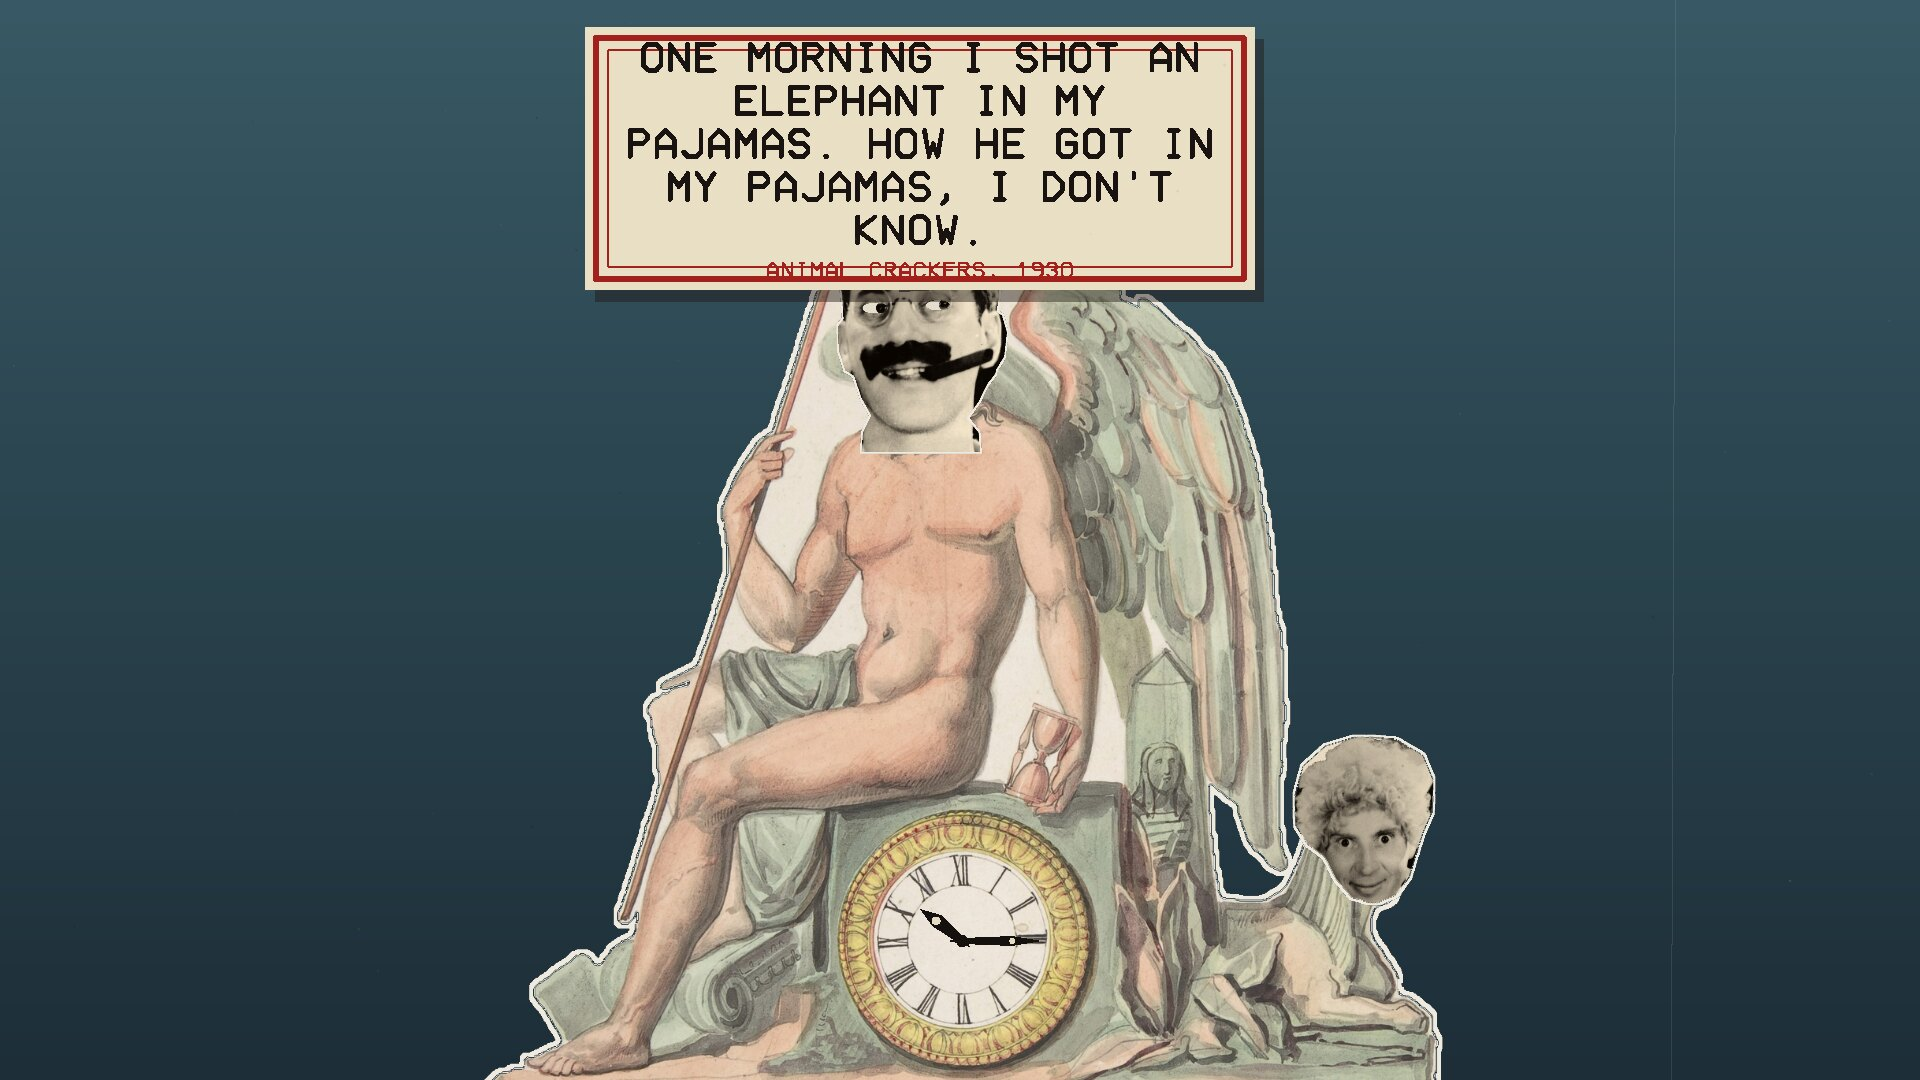
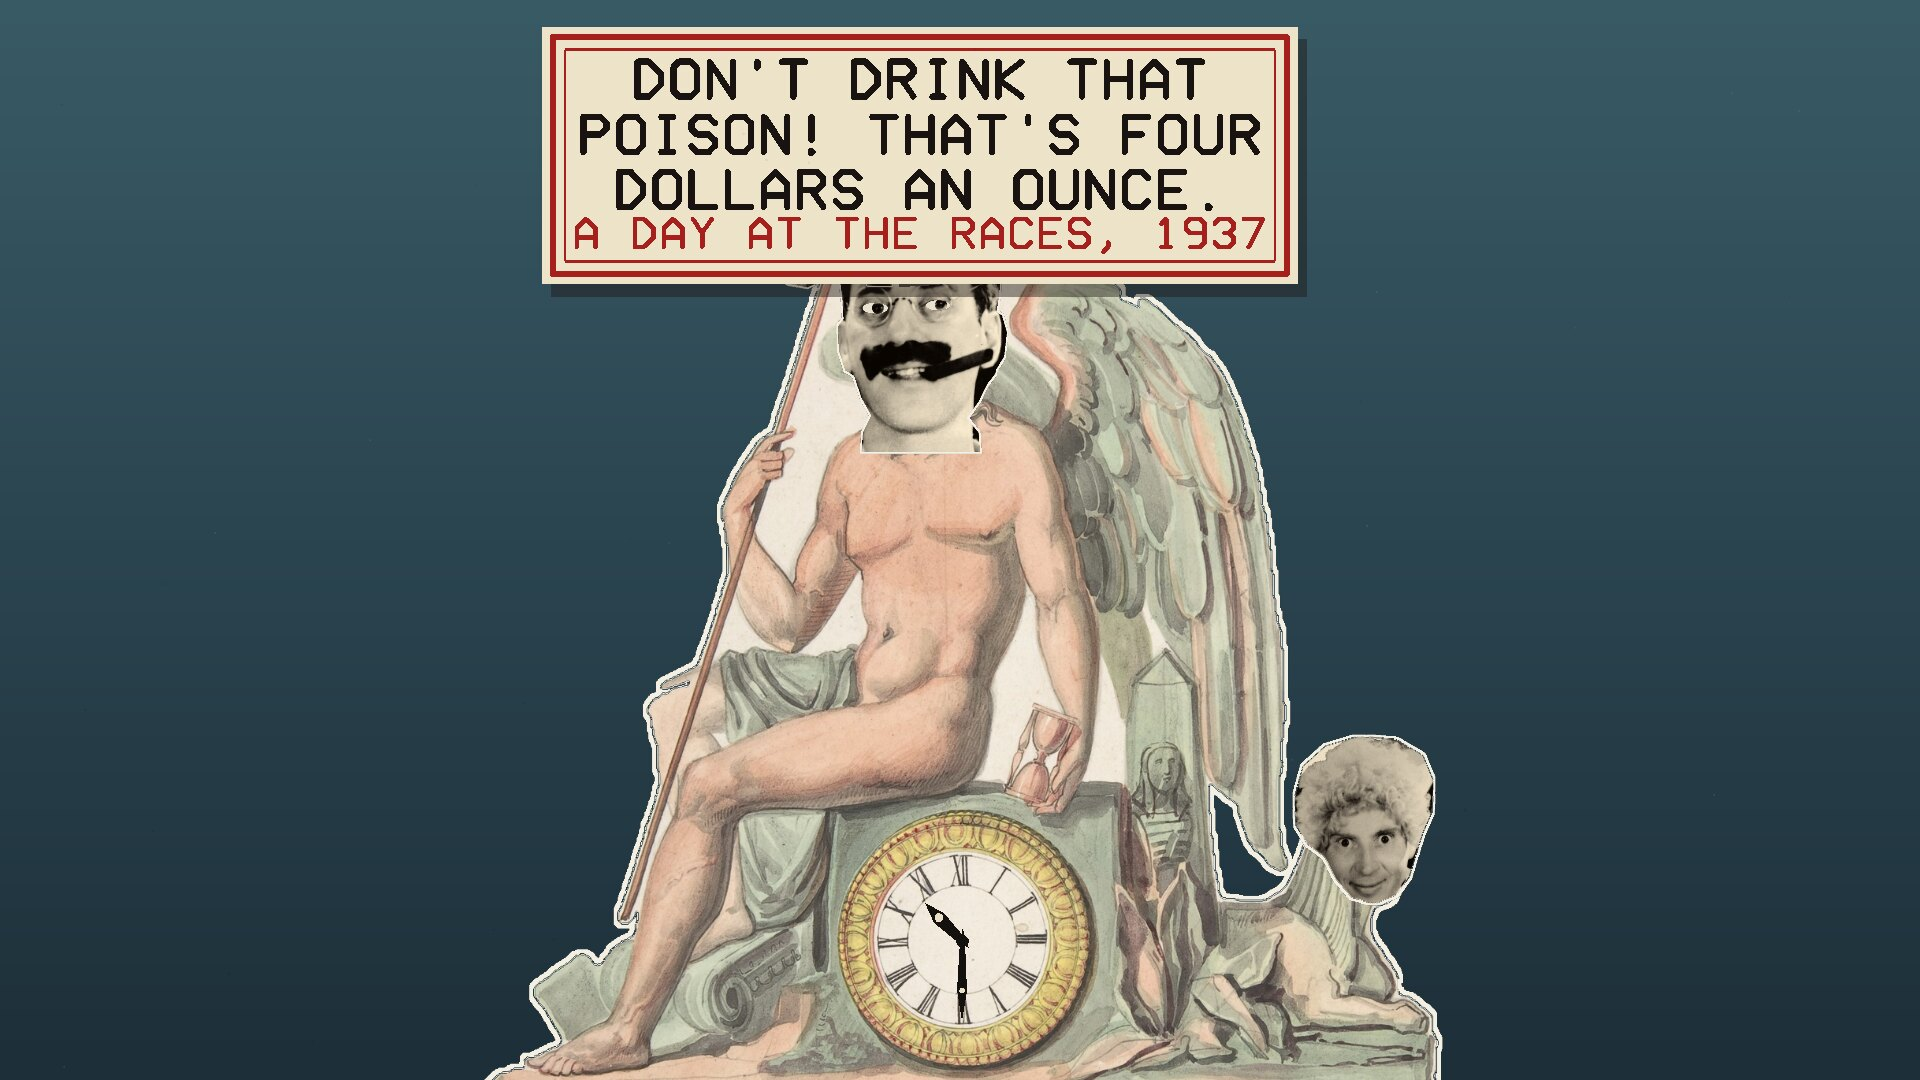
More going on: about every minute and a half a gag with the brothers or the ladies (Zeppo's head swapped in, Dumont sweeping in, Raquel Torres with paper hearts, Chico out of his head on a spring, Harpo up out of the sphinx); the saying card sized to fit any screen, film name included

Changed region(s): [[0.2812, 0.0, 0.6875, 0.3056], [0.5, 0.8556, 0.5312, 0.9167], [0.4688, 0.825, 0.5, 0.8556]]

diff --git a/src/grouchotime.c b/src/grouchotime.c
@@ -397,11 +397,33 @@ static void put(int which, double x, double y, double ax, double ay, double scal
 }
 /* a point of the monument picture, and of the photograph (by where his chin goes), on the screen */
 static void on_mon(double px, double py, double *x, double *y) { *x = mx0 + px * ms; *y = my0 + py * ms; }
+static double head_rot, head_dx, head_dy;   /* the whole head turned about his chin, and moved */
 static void on_photo(double px, double py, double *x, double *y)
 {
-    double cx, cy;
+    double cx, cy, a = head_rot * M_PI / 180;
     on_mon(CHIN_X, CHIN_Y, &cx, &cy);
-    *x = cx + (px - PHOTO_CHIN_X) * hs; *y = cy + (py - PHOTO_CHIN_Y) * hs;
+    double dx = (px - PHOTO_CHIN_X) * hs, dy = (py - PHOTO_CHIN_Y) * hs;
+    *x = cx + dx * cos(a) - dy * sin(a) + head_dx; *y = cy + dx * sin(a) + dy * cos(a) + head_dy;
+}
+
+/* ---- the business in between ----
+ * About every minute and a half, away from the quarter hours, someone does something
+ * for a moment: his head spins round and comes up as Zeppo's, and back; Margaret
+ * Dumont sweeps in and he makes eyes at her; Raquel Torres glides by and his head
+ * floats off after her; the top of his head opens and Chico pops out on a spring; or
+ * Harpo's head goes up out of the sphinx on a spring. */
+enum { EV_ZEPPO, EV_DUMONT, EV_TORRES, EV_CHICO, EV_HARPO, NEV };
+static const double EV_LEN[NEV] = {2.6, 4.2, 4.6, 2.8, 2.4};
+#define EV_EVERY 90.0
+static int event_at(double t, double *u)
+{
+    double slot = floor(t / EV_EVERY), s = t - slot * EV_EVERY;
+    int kind = (int)(hash01((uint64_t)slot * 13 + 1) * NEV) % NEV;
+    double s0 = 20 + hash01((uint64_t)slot * 13 + 2) * 50;
+    if (s < s0 || s > s0 + EV_LEN[kind]) return -1;
+    if (fmod(t, QUARTER) < CARD_LEN + 4) return -1;          /* not while he's saying something */
+    *u = (s - s0) / EV_LEN[kind];
+    return kind;
 }
 
 /* a clock hand as an engraver draws one: a long tapering spade */
@@ -440,8 +462,11 @@ static void saying_label(const Saying *sy, double x, double y, double up)
         p = *e ? e + 1 : e;
     }
     n++;
-    double w = fmin(sw * 0.36, sh * 0.62), s = (w - unit * 6) / (most * 6.2);
-    double lh = s * 10, fsz = s * 0.55, h = lh * n + s * 6 + fsz * 9;
+    /* sized to the screen, and the words sized to fit inside the printer's rule */
+    double w = fmin(sw * 0.40, sh * 0.70), pad = unit * 2.6;
+    double s = (w - 2 * pad) / text_width(lines[0][0] ? "MMMMMMMMMMMMMMMMMMMMMM" : "M", 1.0) * (22.0 / fmax(most, 12));
+    s = fmin(s, (w - 2 * pad) / (most * 6.2));
+    double lh = s * 9.5, fsz = fmin(fmax(s * 0.55, unit * 0.45), (w - 2 * pad) / text_width(sy->film, 1.0)), h = 2 * pad + lh * (n - 1) + s * 6 + fsz * 9;
     double rest = fmax(unit * 2, y - h - sh * 0.10);        /* where it comes to rest: never off the top */
     double top = y + (rest - y) * up - h * fmin(up * 3, 1) * (1 - up), cx = fmin(fmax(x, w / 2 + unit * 2), sw - w / 2 - unit * 2);
     SDL_Color ink = col((Rgb){26, 20, 18}, 1), red = col((Rgb){168, 34, 30}, 1);
@@ -457,8 +482,8 @@ static void saying_label(const Saying *sy, double x, double y, double up)
         double lw = unit * (i ? 0.18 : 0.45);
         line(x0, y0, x1, y0, lw, red); line(x1, y0, x1, y1, lw, red); line(x1, y1, x0, y1, lw, red); line(x0, y1, x0, y0, lw, red);
     }
-    for (int i = 0; i < n; i++) text(lines[i], cx, top + s * 4 + i * lh, s, 1.1, ink);
-    text(sy->film, cx, top + s * 4 + n * lh + fsz * 1.2, fsz, 1.0, red);
+    for (int i = 0; i < n; i++) text(lines[i], cx, top + pad + i * lh, s, 1.1, ink);
+    text(sy->film, cx, top + pad + (n - 1) * lh + s * 6 + fsz * 2.5, fsz, 1.0, red);
     flush(ren);
 }
 
@@ -480,8 +505,27 @@ static void draw_scene(SDL_Renderer *r, int w, int h)
     flush(ren);
 
     double hp = fmod(T, 3600), mp = fmod(T, 60), qp = fmod(T, QUARTER);
+    double eu = 0;
+    int ev = event_at(T, &eu);
+    double ju = jerky(eu * EV_LEN[ev < 0 ? 0 : ev]) / EV_LEN[ev < 0 ? 0 : ev];
+    head_rot = head_dx = head_dy = 0;
+    int zeppo_face = 0;
+    if (ev == EV_ZEPPO) {                                  /* round once, Zeppo; round again, Groucho */
+        if (ju < 0.3) head_rot = 360 * ease(ju / 0.3);
+        else if (ju < 0.7) zeppo_face = 1;
+        else head_rot = 360 * ease((ju - 0.7) / 0.3);
+        zeppo_face |= (ju > 0.15 && ju < 0.3) || (ju >= 0.7 && ju < 0.85);
+    }
+    double smitten = 0;
+    if (ev == EV_TORRES) {                                 /* his head floats up after her */
+        smitten = ramp(ju, 0.25, 0.4) * (1 - ramp(ju, 0.78, 0.92));
+        head_dy = -sh * 0.10 * smitten - sh * 0.02 * sin(ju * 30) * smitten;
+        head_dx = -sw * 0.05 * smitten;
+        head_rot = -12 * smitten;
+    }
     double gq; int gframe;
     int gummo = gummo_at(T, &gq, &gframe);
+    if (ev >= 0) gummo = 0;                                 /* one thing at a time */
 
     /* the monument: Father Time and his clock fill the screen, and the plinth goes
      * on down out of sight */
@@ -523,6 +567,16 @@ static void draw_scene(SDL_Renderer *r, int w, int h)
         if (tt > 17) tilt = sin(M_PI * jerky(tt - 17) / 6) * 14;
         if (gummo) tilt = -10 * gq;                          /* and towards whoever has come */
         on_mon(SPHINX_CHIN_X, SPHINX_CHIN_Y, &hx, &hy);
+        if (ev == EV_HARPO) {                                /* up on a spring, and down again */
+            double lift = ju < 0.3 ? ju / 0.3 * 1.15 : ju < 0.8 ? 1 + 0.15 * cos((ju - 0.3) * 30) * exp(-(ju - 0.3) * 6) : (1 - ju) / 0.2;
+            double top = hy - sh * 0.22 * lift;
+            for (int i = 0; i < 10; i++) {
+                double ya = hy + (top - hy) * i / 10.0, yb = hy + (top - hy) * (i + 1) / 10.0;
+                line(hx + (i & 1 ? -1 : 1) * unit, ya, hx + (i & 1 ? 1 : -1) * unit, yb, unit * 0.3, col((Rgb){90, 84, 78}, 1));
+            }
+            flush(ren);
+            hy = top; tilt = sin(ju * 25) * 12;
+        }
         put(SP_harpo, hx, hy, HARPO_CHIN_X, HARPO_CHIN_Y, ms * 0.56, tilt, 1, 0);
     }
 
@@ -539,22 +593,36 @@ static void draw_scene(SDL_Renderer *r, int w, int h)
         disc(x, y, erx * hs * 1.15, col((Rgb){236, 228, 210}, 1), col((Rgb){236, 228, 210}, 1));
         flush(ren);
         int ir = e ? SP_iris_r : SP_iris_l;
-        put(ir, x + look * erx * hs * 0.55, y, sprite[ir].w / 2.0, sprite[ir].h / 2.0, hs * 1.05, 0, 1, 0);
+        double ox = look * erx * 0.55, oy = 0;
+        if (ev == EV_DUMONT && ju > 0.2 && ju < 0.85) ox = erx * 0.6;        /* at her */
+        if (ev == EV_TORRES && ju > 0.1 && ju < 0.9) ox = -erx * 0.6;
         (void)ery;
+        double ra = head_rot * M_PI / 180;
+        put(ir, x + (ox * cos(ra) - oy * sin(ra)) * hs, y + (ox * sin(ra) + oy * cos(ra)) * hs,
+            sprite[ir].w / 2.0, sprite[ir].h / 2.0, hs * 1.05, head_rot, 1, 0);
     }
 
     /* the head */
     double x, y;
     on_photo(HEAD_X, HEAD_Y, &x, &y);
-    put(SP_head, x, y, 0, 0, hs, 0, 1, 0);
+    if (zeppo_face) {                                      /* Zeppo, where Groucho was */
+        double zx, zy, zs = hs * sprite[SP_head].w / sprite[SP_zeppo].w * 0.9;
+        on_photo(PHOTO_CHIN_X, PHOTO_CHIN_Y - 40, &zx, &zy);
+        put(SP_zeppo, zx, zy, ZEPPO_CHIN_X, ZEPPO_CHIN_Y, zs, head_rot, 1, 0);
+    } else
+        put(SP_head, x, y, 0, 0, hs, head_rot, 1, 0);
 
     /* the eyebrows: up and down as each minute begins, and up for Gummo */
     double wag = mp < 1.5 ? fabs(sin(jerky(mp) * M_PI * 3)) * (1 - mp / 1.5) : 0;
+    if (ev == EV_DUMONT && ju > 0.25 && ju < 0.85) wag = fabs(sin(jerky(ju * 4.2) * M_PI * 2.5));
+    if (smitten > 0) wag = fmax(wag, smitten * fabs(sin(jerky(anim_t) * 9)));
     double lift = wag * 22 + (gummo ? 14 * gq : 0);
+    if (!zeppo_face) {
     on_photo(BROW_L_X, BROW_L_Y - lift, &x, &y);
-    put(SP_brow_l, x, y, 0, 0, hs, -wag * 6, 1, 0);
+    put(SP_brow_l, x, y, 0, 0, hs, head_rot - wag * 6, 1, 0);
     on_photo(BROW_R_X, BROW_R_Y - lift, &x, &y);
-    put(SP_brow_r, x, y, 0, 0, hs, wag * 6, 1, 0);
+    put(SP_brow_r, x, y, 0, 0, hs, head_rot + wag * 6, 1, 0);
+    }
 
     /* every quarter of an hour the top of his head flips open on its hinge and up
      * comes a saying, on a spring */
@@ -564,6 +632,12 @@ static void draw_scene(SDL_Renderer *r, int w, int h)
         up = ramp(qp, 0.7, 1.3) * (1 - ramp(qp, CARD_LEN + 0.6, CARD_LEN + 1.4));
         open = jerky(open * 3) / 3; up = jerky(up * 4) / 4;
         up *= 1 + 0.15 * sin(fmin(qp - 1.3, 2) * 9) * exp(-fmax(qp - 1.3, 0) * 2.5) * (qp > 1.3);
+    }
+    double chico_up = 0;
+    if (ev == EV_CHICO) {                                  /* the lid opens and up pops Chico */
+        open = ramp(ju, 0, 0.15) * (1 - ramp(ju, 0.85, 1));
+        chico_up = ramp(ju, 0.15, 0.3) * (1 - ramp(ju, 0.7, 0.85));
+        chico_up *= 1 + 0.12 * sin((ju - 0.3) * 40) * exp(-fmax(ju - 0.3, 0) * 8) * (ju > 0.3);
     }
     if (open > 0) {                                        /* the inside of his head: a dark slot along the cut */
         double ax, ay, bx, by;
@@ -579,8 +653,46 @@ static void draw_scene(SDL_Renderer *r, int w, int h)
         for (int i = 0; i < n; i++) { ib[ni++] = k; ib[ni++] = k + 1 + i; ib[ni++] = k + 1 + (i + 1) % n; }
         flush(ren);
     }
+    if (chico_up > 0) {
+        double cx, cy, top, cs = hs * sprite[SP_head].w / sprite[SP_chico].w * 0.75;
+        on_photo(430, 205, &cx, &cy);
+        top = cy - sh * 0.09 * chico_up;
+        for (int i = 0; i < 8; i++) {
+            double ya = cy + (top - cy) * i / 8.0, yb = cy + (top - cy) * (i + 1) / 8.0;
+            line(cx + (i & 1 ? -1 : 1) * unit * 1.2, ya, cx + (i & 1 ? 1 : -1) * unit * 1.2, yb, unit * 0.32, col((Rgb){90, 84, 78}, 1));
+        }
+        flush(ren);
+        put(SP_chico, cx, top, CHICO_CHIN_X, CHICO_CHIN_Y, cs, sin(ju * 30) * 10, 1, 0);
+    }
     on_photo(HINGE_X, HINGE_Y, &x, &y);
-    put(SP_flap, x, y, HINGE_X - FLAP_X, HINGE_Y - FLAP_Y, hs, -open * 115, 1, 0);
+    if (!zeppo_face) put(SP_flap, x, y, HINGE_X - FLAP_X, HINGE_Y - FLAP_Y, hs, head_rot - open * 115, 1, 0);
+
+    /* the ladies, sweeping in and out in front of everything, jerkily */
+    if (ev == EV_DUMONT) {
+        double q = jerky(ramp(ju, 0, 0.2) * 4) / 4 * (1 - jerky(ramp(ju, 0.85, 1) * 4) / 4);
+        double ds = sh * 0.80 / sprite[SP_dumont].h, wdt = sprite[SP_dumont].w * ds;
+        put(SP_dumont, sw - wdt * 0.92 * q, sh - sprite[SP_dumont].h * ds * 0.95, 0, 0, ds, -4 * q + 3 * sin(ju * 12) * q, 1, 0);
+    }
+    if (ev == EV_TORRES) {
+        double q = jerky(ju * EV_LEN[EV_TORRES] * 3) / (EV_LEN[EV_TORRES] * 3);
+        double ts = sh * 0.72 / sprite[SP_torres].h, wdt = sprite[SP_torres].w * ts;
+        double x0 = -wdt, x1 = sw * 0.42;
+        double px = q < 0.45 ? x0 + (x1 - x0) * ease(q / 0.45) : q < 0.6 ? x1 : x1 - (x1 - x0) * ease((q - 0.6) / 0.4);
+        put(SP_torres, px, sh - sprite[SP_torres].h * ts * 0.95, 0, 0, ts, 2 * sin(q * 20), 1, 0);
+        if (q > 0.35 && q < 0.75)                          /* a heart or two, cut from red paper */
+            for (int k = 0; k < 3; k++) {
+                double hx, hy, hq = fmod(q * 3 + k * 0.33, 1);
+                on_photo(450 + k * 60, 120, &hx, &hy);
+                hy -= hq * sh * 0.15;
+                double rr = unit * 1.6;
+                SDL_Color red = col((Rgb){190, 30, 40}, 1 - hq);
+                disc(hx - rr * 0.5, hy, rr * 0.62, red, red); disc(hx + rr * 0.5, hy, rr * 0.62, red, red);
+                vb_need(3, 3); int kk = nv;
+                vert(hx - rr * 1.08, hy + rr * 0.2, red); vert(hx + rr * 1.08, hy + rr * 0.2, red); vert(hx, hy + rr * 1.5, red);
+                ib[ni++] = kk; ib[ni++] = kk + 1; ib[ni++] = kk + 2;
+                flush(ren);
+            }
+    }
     if (up > 0) {
         double cx, cy;
         on_photo(430, 205, &cx, &cy);

diff --git a/tools/make_cutouts.py b/tools/make_cutouts.py
@@ -56,7 +56,21 @@ BROTHERS = {
                (1660, 2740), (1650, 2880), (1620, 2990), (1580, 3100), (1520, 3190), (1420, 3240),
                (1320, 3220), (1240, 3140), (1190, 3020), (1160, 2880)], (1420, 3240)),
 }
-SPHINX_CHIN = (1345, 955)                  # where Harpo's chin goes, on the monument picture
+SPHINX_CHIN = (1345, 955)
+
+# ---- the ladies, for the business in between: Raquel Torres (1930s studio
+# portrait) and Margaret Dumont (The Cocoanuts, 1929), both public domain ----
+LADIES = {
+    "torres": ("raquel-torres-1930s.jpg", [(300, 95), (350, 82), (410, 90), (455, 130), (470, 190), (465, 260),
+               (445, 300), (500, 330), (560, 350), (620, 420), (640, 520), (640, 640), (600, 690), (550, 690),
+               (520, 700), (520, 840), (190, 840), (200, 700), (110, 690), (70, 640), (90, 560), (140, 450),
+               (200, 380), (255, 340), (260, 300), (250, 250), (255, 180), (270, 130)]),
+    "dumont": ("margaret-dumont-cocoanuts-1929.jpg", [(200, 90), (250, 40), (330, 25), (420, 40), (500, 110),
+               (560, 200), (600, 280), (560, 300), (480, 320), (440, 330), (430, 380), (470, 410), (530, 430),
+               (575, 480), (590, 560), (600, 700), (600, 860), (150, 860), (140, 720), (60, 720), (40, 630),
+               (80, 580), (130, 555), (170, 560), (160, 500), (190, 450), (240, 420), (270, 410), (230, 400),
+               (160, 370), (100, 330), (90, 280), (130, 200), (180, 130)]),
+}                  # where Harpo's chin goes, on the monument picture
 
 # ---- Gummo, in the 1913 newspaper page's pixels ----
 GUMMO = [(1430, 880), (1500, 858), (1600, 855), (1680, 878), (1740, 928), (1766, 1000), (1762, 1080),
@@ -263,6 +277,17 @@ def brothers(defs):
         defs[name.upper() + "_CHIN"] = ((chin[0] - a) / 2 + EDGE + 1, (chin[1] - b) / 2 + EDGE + 1)
     defs["SPHINX_CHIN"] = SPHINX_CHIN
 
+def ladies(defs):
+    for name, (f, pts) in LADIES.items():
+        im = ImageOps.autocontrast(Image.open(f"{SRC}/{f}").convert("L"), cutoff=0.5)
+        g = np.asarray(im).astype(float)
+        rgb = np.dstack([np.clip(g + 8, 0, 255), np.clip(g * 0.96 + 4, 0, 255), np.clip(g * 0.86, 0, 255)]).astype(np.uint8)
+        W, H = im.size
+        m = poly_mask((W, H), pts)
+        ys, xs = np.nonzero(m)
+        a, b, c, d = xs.min(), ys.min(), xs.max() + 1, ys.max() + 1
+        save(with_edge(pad(np.dstack([rgb, (m * 255).astype(np.uint8)])[b:d, a:c], EDGE + 1)), name)
+
 def write_lists(defs):
     lines = ["/* Made by tools/make_cutouts.py: where the pieces go, in their pictures' pixels. */"]
     for k, v in defs.items():
@@ -288,6 +313,7 @@ def main():
     groucho(defs)
     gummo(defs)
     brothers(defs)
+    ladies(defs)
     write_lists(defs)
 
 if __name__ == "__main__":

diff --git a/src/art.h b/src/art.h
@@ -1,5 +1,6 @@
 /* Made by tools/make_cutouts.py: every picture in assets/art. */
 #define SPRITES \
-    X(brow_l, "brow_l.png") X(brow_r, "brow_r.png") X(chico, "chico.png") X(flap, "flap.png") \
-    X(gummo, "gummo.png") X(harpo, "harpo.png") X(head, "head.png") X(iris_l, "iris_l.png") \
-    X(iris_r, "iris_r.png") X(monument, "monument.png") X(zeppo, "zeppo.png")
+    X(brow_l, "brow_l.png") X(brow_r, "brow_r.png") X(chico, "chico.png") X(dumont, "dumont.png") \
+    X(flap, "flap.png") X(gummo, "gummo.png") X(harpo, "harpo.png") X(head, "head.png") \
+    X(iris_l, "iris_l.png") X(iris_r, "iris_r.png") X(monument, "monument.png") X(torres, "torres.png") \
+    X(zeppo, "zeppo.png")

diff --git a/README.md b/README.md
@@ -18,6 +18,7 @@ Groucho Marx's head pasted on. Runs on Linux, Windows and macOS. One of the
   Cocoanuts* to *A Day at the Races*, each with the film it is from.
 - **Harpo is the sphinx**, silent, and now and then his head goes over to one side.
 - **Now and then** Gummo, Chico or Zeppo peeks out from behind the clock.
+- **About every minute and a half** something happens: his head spins round and comes up as Zeppo's; Margaret Dumont sweeps in and he waggles his eyebrows at her; Raquel Torres glides past and his head floats off after her in a cloud of paper hearts; the top of his head opens and Chico pops out on a spring; or Harpo's head goes up out of the sphinx on a spring.
 
 Everything moves the way paper cut-outs do: in jerks, on twelve frames a second.
 
@@ -37,6 +38,10 @@ All in the public domain.
   Library of Congress ([Wikimedia Commons](https://commons.wikimedia.org/wiki/File:Groucho_Marx.jpg)).
 - **Chico, Harpo and Zeppo**: the four Marx Brothers, 1931
   ([Wikimedia Commons](https://commons.wikimedia.org/wiki/File:Marx_Brothers_1931.jpg)).
+- **Margaret Dumont**: *The Cocoanuts* (1929)
+  ([Wikimedia Commons](https://commons.wikimedia.org/wiki/File:Margaret_Dumont_in_The_Cocoanuts_(1929).jpg)).
+- **Raquel Torres**: a 1930s studio portrait
+  ([Wikimedia Commons](https://commons.wikimedia.org/wiki/File:Raquel_Torres_(1930s)_(49429156891).jpg)).
 - **Gummo**: "Four Marx Brothers", *The Times-Democrat*, New Orleans, 11 May 1913
   ([Wikimedia Commons](https://commons.wikimedia.org/wiki/File:Four_Marx_Bros_Mr_Green_Reception_New_Orleans_Times-Democrat_11_May_1913.png)).
 
